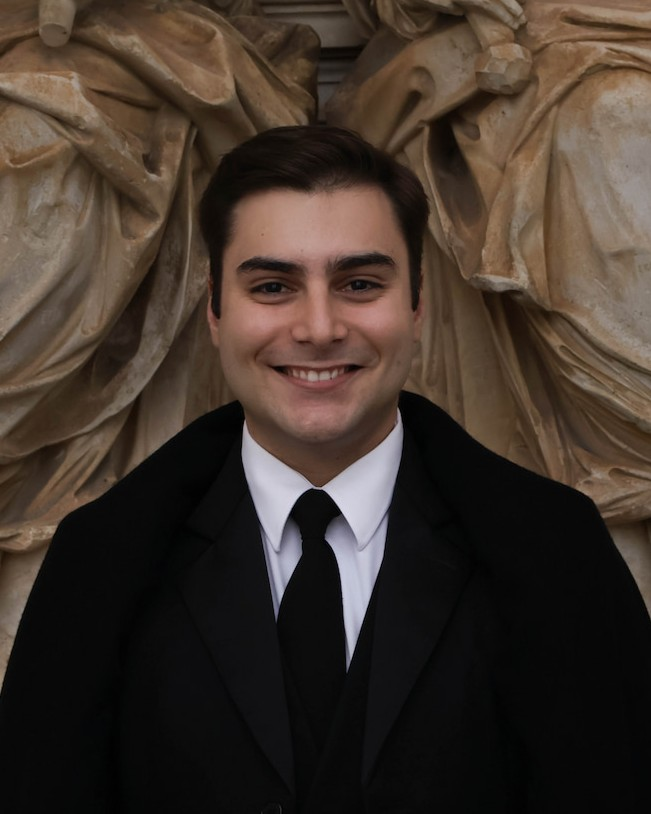
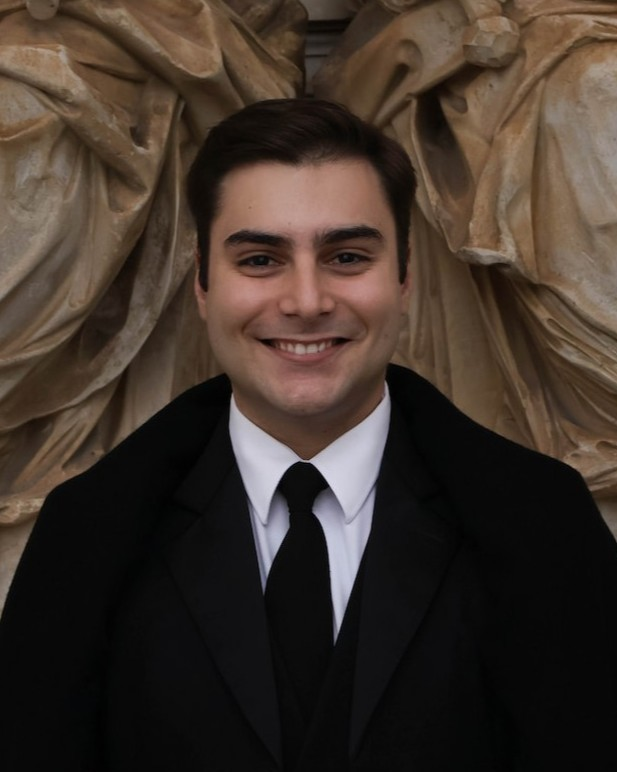
melhorias

Changed region(s): [[0.0, 0.0, 1.0, 0.8394], [0.2771, 0.4974, 0.3387, 0.5285], [0.5235, 0.5596, 0.5543, 0.5907]]

diff --git a/index.html b/index.html
@@ -11,7 +11,7 @@
   <link href="https://fonts.googleapis.com/css2?family=Lato:ital,wght@0,400;0,700;1,400;1,700&family=Merriweather:ital,wght@0,300;0,400;0,700;1,300;1,400&display=swap" rel="stylesheet">
   <link rel="icon" type="image/png" sizes="32x32" href="imagens/favicon-32.png">
   <link rel="apple-touch-icon" href="imagens/favicon-180.png">
-  <link rel="stylesheet" href="style.css?v=3">
+  <link rel="stylesheet" href="style.css?v=7">
 </head>
 <body>
   <a class="saltar" href="#conteudo">Saltar para o conteúdo</a>
@@ -167,42 +167,42 @@
       <p class="bloco-intro">Oito estudantes de diferentes faculdades, prontos para representar a diversidade de quem estuda na UC.</p>
       <div class="equipa-grelha">
         <article class="candidato">
-          <div class="candidato-foto"><img src="imagens/equipa/antonio.jpg" alt="António Lopes" loading="lazy"></div>
+          <div class="candidato-foto"><img src="imagens/equipa/antonio.jpg?v=2" alt="António Lopes" loading="lazy"></div>
           <h3>António Lopes</h3>
           <p>FLUC</p>
         </article>
         <article class="candidato">
-          <div class="candidato-foto"><img src="imagens/equipa/filipa_silva.jpg" alt="Filipa Silva" loading="lazy"></div>
+          <div class="candidato-foto"><img src="imagens/equipa/filipa_silva.jpg?v=2" alt="Filipa Silva" loading="lazy"></div>
           <h3>Filipa Silva</h3>
           <p>FMUC</p>
         </article>
         <article class="candidato">
-          <div class="candidato-foto"><img src="imagens/equipa/beatriz_vieira.jpg" alt="Beatriz Vieira" loading="lazy"></div>
+          <div class="candidato-foto"><img src="imagens/equipa/beatriz_vieira.jpg?v=2" alt="Beatriz Vieira" loading="lazy"></div>
           <h3>Beatriz Vieira</h3>
           <p>FDUC</p>
         </article>
         <article class="candidato">
-          <div class="candidato-foto"><img src="imagens/equipa/goncalo_abrantes.jpg" alt="Gonçalo Abrantes" loading="lazy"></div>
+          <div class="candidato-foto"><img src="imagens/equipa/goncalo_abrantes.jpg?v=2" alt="Gonçalo Abrantes" loading="lazy"></div>
           <h3>Gonçalo Abrantes</h3>
           <p>FEUC</p>
         </article>
         <article class="candidato">
-          <div class="candidato-foto"><img src="imagens/equipa/barbara_santos.jpg" alt="Bárbara Santos" loading="lazy"></div>
+          <div class="candidato-foto"><img src="imagens/equipa/barbara_santos.jpg?v=2" alt="Bárbara Santos" loading="lazy"></div>
           <h3>Bárbara Santos</h3>
           <p>FCTUC</p>
         </article>
         <article class="candidato">
-          <div class="candidato-foto"><img src="imagens/equipa/martim_rodrigues.jpg" alt="Martim Rodrigues" loading="lazy"></div>
+          <div class="candidato-foto"><img src="imagens/equipa/martim_rodrigues.jpg?v=2" alt="Martim Rodrigues" loading="lazy"></div>
           <h3>Martim Rodrigues</h3>
           <p>FCDEFUC</p>
         </article>
         <article class="candidato">
-          <div class="candidato-foto"><img src="imagens/equipa/beatriz_amaral.jpg" alt="Beatriz Amaral" loading="lazy"></div>
+          <div class="candidato-foto"><img src="imagens/equipa/beatriz_amaral.jpg?v=2" alt="Beatriz Amaral" loading="lazy"></div>
           <h3>Beatriz Amaral</h3>
           <p>FFUC</p>
         </article>
         <article class="candidato">
-          <div class="candidato-foto"><img src="imagens/equipa/guilherme_machado.jpg" alt="Guilherme Machado" loading="lazy"></div>
+          <div class="candidato-foto"><img src="imagens/equipa/guilherme_machado.jpg?v=2" alt="Guilherme Machado" loading="lazy"></div>
           <h3>Guilherme Machado</h3>
           <p>ESEUC</p>
         </article>
@@ -296,7 +296,7 @@
     <a class="ligacao" href="#inicio">Voltar ao início</a>
   </footer>
 
-  <script src="script.js?v=3"></script>
+  <script src="script.js?v=7"></script>
   <script>var d=document,w="https://tally.so/widgets/embed.js",v=function(){"undefined"!=typeof Tally?Tally.loadEmbeds():d.querySelectorAll("iframe[data-tally-src]:not([src])").forEach((function(e){e.src=e.dataset.tallySrc}))};if("undefined"!=typeof Tally)v();else if(d.querySelector('script[src="'+w+'"]')==null){var s=d.createElement("script");s.src=w,s.onload=v,s.onerror=v,d.body.appendChild(s);}</script>
 </body>
 </html>

diff --git a/style.css b/style.css
@@ -668,15 +668,22 @@ blockquote {
   position: relative;
   padding: 1rem 1rem 1.5rem;
   border-radius: 20px;
-  background: color-mix(in srgb, var(--profundo) 45%, transparent);
-  border: 1px solid color-mix(in srgb, var(--texto-suave) 15%, transparent);
-  transition: transform 0.4s ease, border-color 0.4s ease, background 0.4s ease;
+  background: #004E2A;
+  border: 1px solid color-mix(in srgb, var(--destaque) 35%, transparent);
+  box-shadow:
+    inset 0 1px 0 color-mix(in srgb, var(--texto) 12%, transparent),
+    0 4px 10px rgba(0, 0, 0, 0.18),
+    0 22px 40px -18px rgba(0, 0, 0, 0.55);
+  transition: transform 0.4s ease, border-color 0.4s ease, box-shadow 0.4s ease;
 }
 
 .candidato:hover {
   transform: translateY(-6px);
-  border-color: color-mix(in srgb, var(--destaque) 60%, transparent);
-  background: color-mix(in srgb, var(--profundo) 60%, transparent);
+  border-color: color-mix(in srgb, var(--destaque) 70%, transparent);
+  box-shadow:
+    inset 0 1px 0 color-mix(in srgb, var(--texto) 16%, transparent),
+    0 8px 16px rgba(0, 0, 0, 0.22),
+    0 30px 50px -18px rgba(0, 0, 0, 0.65);
 }
 
 .candidato-foto {
@@ -687,6 +694,7 @@ blockquote {
   overflow: hidden;
   border-radius: 14px;
   background: linear-gradient(160deg, var(--escuro), var(--profundo));
+  box-shadow: 0 0 0 1px color-mix(in srgb, var(--texto) 12%, transparent), 0 8px 18px -8px rgba(0, 0, 0, 0.5);
 }
 
 .candidato-foto span {
@@ -727,9 +735,9 @@ blockquote {
   max-width: none;
   padding-left: max(5%, calc((100% - 1150px) / 2 + 5%));
   background:
-    radial-gradient(circle at 85% 30%, color-mix(in srgb, var(--sombra) 60%, transparent), transparent 55%),
-    radial-gradient(circle at 10% 90%, color-mix(in srgb, var(--escuro) 70%, transparent), transparent 50%),
-    var(--profundo);
+    radial-gradient(circle at 85% 30%, color-mix(in srgb, #004E2A 70%, black), transparent 60%),
+    radial-gradient(circle at 10% 90%, color-mix(in srgb, var(--escuro) 60%, #004E2A), transparent 55%),
+    #004E2A;
 }
 
 .bloco-destaque p + p {
@@ -1256,8 +1264,9 @@ footer .ligacao:hover {
 .hemiciclo-nota {
   min-height: 4.8em;
   margin-top: 1.2rem;
+  text-align: center;
   font-family: var(--fonte-texto);
-  font-size: 1.1rem;
+  font-size: 0.95rem;
   line-height: 1.6;
   color: var(--texto-suave);
 }
@@ -1320,7 +1329,7 @@ footer .ligacao:hover {
 }
 
 .competencia {
-  padding: 2.2rem;
+  padding: 1.6rem 1.8rem;
   background: color-mix(in srgb, var(--escuro) 82%, var(--profundo));
   transition: background 0.4s ease;
 }
@@ -1330,7 +1339,7 @@ footer .ligacao:hover {
 }
 
 .competencia::before {
-  content: "";
+  content: none;
   display: block;
   width: 8px;
   height: 8px;
@@ -1340,7 +1349,7 @@ footer .ligacao:hover {
 }
 
 .competencia h4 {
-  margin-bottom: 0.9rem;
+  margin-bottom: 0.7rem;
   font-family: var(--fonte-titulos);
   font-size: 1.6rem;
   font-weight: 700;
@@ -1390,6 +1399,12 @@ footer .ligacao:hover {
   .hemiciclo {
     grid-template-columns: 1fr;
     gap: 2rem;
+    margin-bottom: 1.5rem;
+  }
+
+  .hemiciclo-nota {
+    min-height: 0;
+    margin-top: 0.9rem;
   }
 }
 
@@ -1612,6 +1627,11 @@ footer,
 
   .conselho-factos {
     gap: 0.5rem;
+    margin-bottom: 2rem;
+  }
+
+  .competencia {
+    padding: 1.2rem 1.3rem;
   }
 
   .facto {

diff --git a/manifesto.html b/manifesto.html
@@ -11,7 +11,7 @@
   <link href="https://fonts.googleapis.com/css2?family=Lato:ital,wght@0,400;0,700;1,400;1,700&family=Merriweather:ital,wght@0,300;0,400;0,700;1,300;1,400&display=swap" rel="stylesheet">
   <link rel="icon" type="image/png" sizes="32x32" href="imagens/favicon-32.png">
   <link rel="apple-touch-icon" href="imagens/favicon-180.png">
-  <link rel="stylesheet" href="style.css?v=3">
+  <link rel="stylesheet" href="style.css?v=7">
 </head>
 <body>
   <a class="saltar" href="#conteudo">Saltar para o conteúdo</a>
@@ -122,6 +122,6 @@
     <a class="ligacao" href="#">Voltar ao topo</a>
   </footer>
 
-  <script src="script.js?v=3"></script>
+  <script src="script.js?v=7"></script>
 </body>
 </html>
